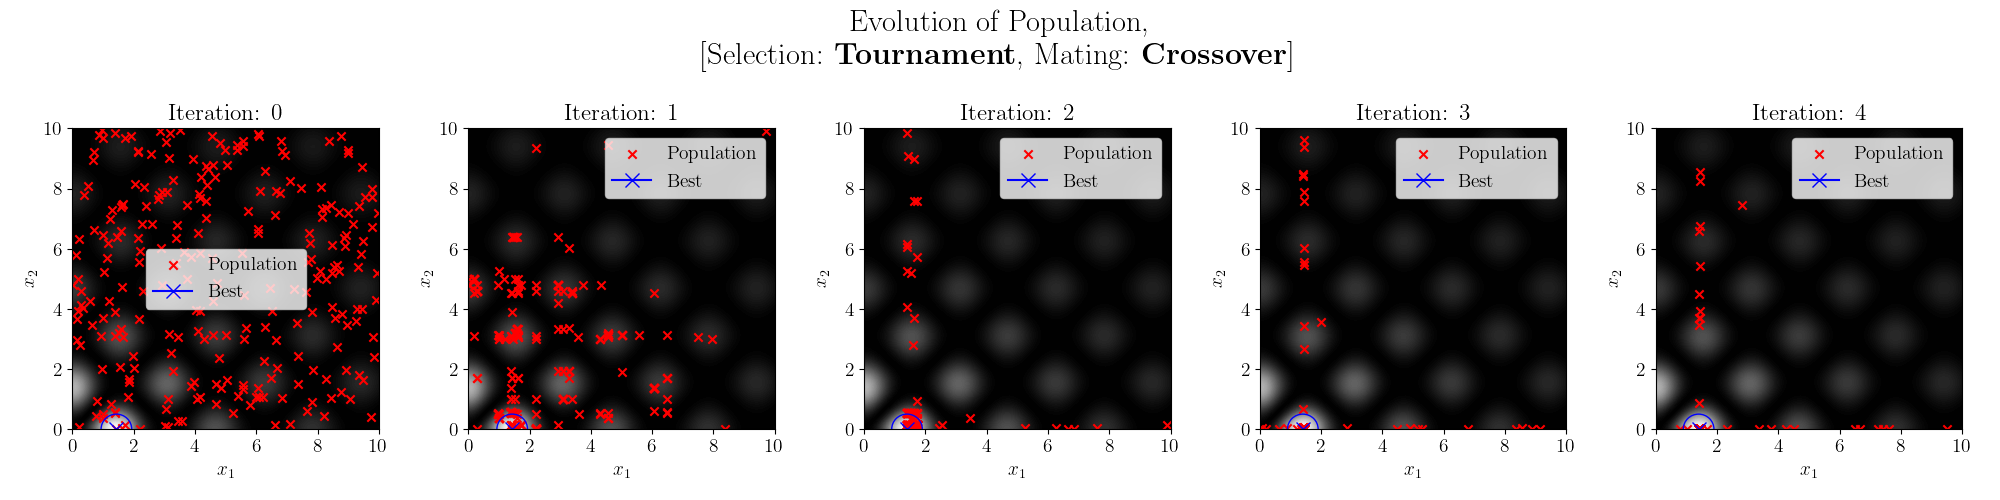
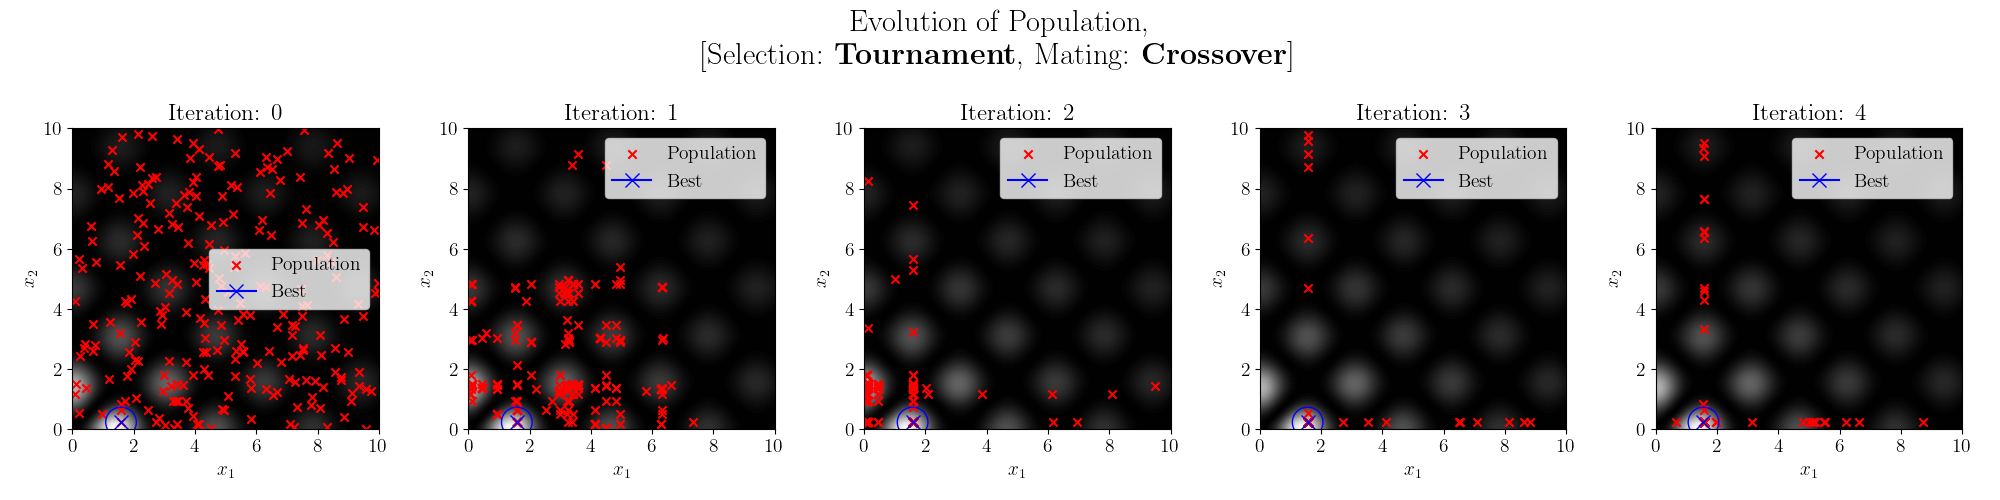
fixed all typos

diff --git a/main.py b/main.py
@@ -9,7 +9,7 @@ import matplotlib.pyplot as plt
 from tqdm import tqdm
 
 X_RANGE=(0,10)
-FUNCTION = KBF_function
+FUNCTION = Rosenbrock_function
 POPULATION_SIZE = 250
 CHROMOSOME_LENGTH = 2
 MUTATION_RATE = 0.05
@@ -76,6 +76,6 @@ plt.tight_layout()
 plt.savefig(f'figures/{NAME}.png')
 
 # Plot fitness evolution
-plot_fitness(avg_fitness, min_fitness, name='NAME', type=(SELECTION_METHOD, MATING_PROCEDURE))
+plot_fitness(avg_fitness, min_fitness, name=NAME, type=(SELECTION_METHOD, MATING_PROCEDURE))
 
 
